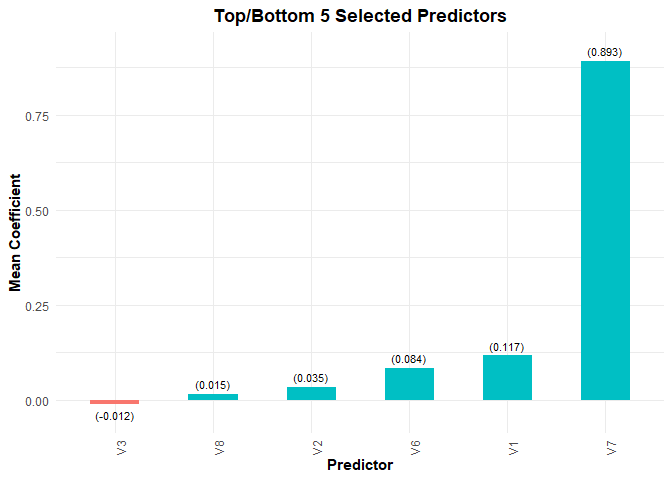
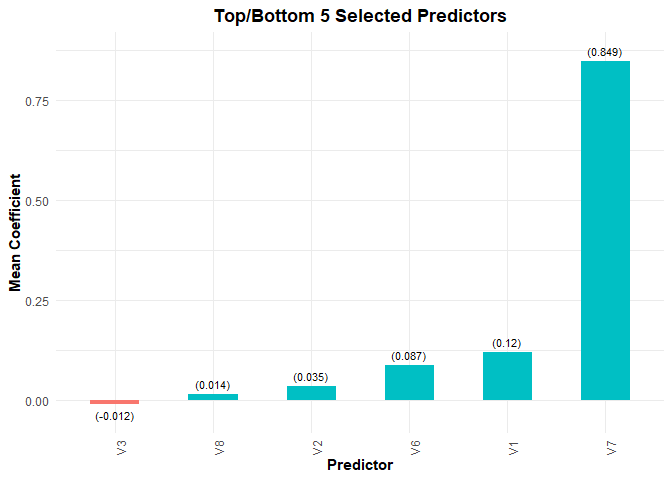
Update README.md

diff --git a/README.md b/README.md
@@ -11,7 +11,7 @@ experimental](https://img.shields.io/badge/lifecycle-experimental-orange.svg)](h
 <!-- badges: end -->
 
 The goal of bolasso is to implement model-consistent Lasso estimation
-via the bootstrap.
+via the bootstrap [\[1\]](#1).
 
 ## Installation
 
@@ -59,7 +59,7 @@ model <- bolasso(
 )
 
 Sys.time() - start.time
-#> Time difference of 34.18556 secs
+#> Time difference of 29.13701 secs
 ```
 
 We can get a quick overview of the model by printing the `bolasso`
@@ -75,7 +75,7 @@ model
 #> 
 #> Selected variables:
 #>    - 6/8 predictors selected with 90% threshold
-#>    - 3/8 predictors selected with 100% threshold
+#>    - 4/8 predictors selected with 100% threshold
 ```
 
 ### Extracting selected variables
@@ -92,23 +92,24 @@ selected_vars(model,
 #> # A tibble: 7 x 2
 #>   variable  mean_coef
 #>   <chr>         <dbl>
-#> 1 Intercept   -8.22  
-#> 2 V1           0.117 
-#> 3 V2           0.0346
-#> 4 V3          -0.0121
-#> 5 V6           0.0839
-#> 6 V7           0.893 
-#> 7 V8           0.0155
+#> 1 Intercept   -8.20  
+#> 2 V1           0.120 
+#> 3 V2           0.0347
+#> 4 V3          -0.0118
+#> 5 V6           0.0866
+#> 6 V7           0.849 
+#> 7 V8           0.0139
 selected_vars(model,
               threshold = 1,
               select = "lambda.min")
-#> # A tibble: 4 x 2
+#> # A tibble: 5 x 2
 #>   variable  mean_coef
 #>   <chr>         <dbl>
-#> 1 Intercept   -8.22  
-#> 2 V1           0.117 
-#> 3 V2           0.0346
-#> 4 V6           0.0839
+#> 1 Intercept   -8.20  
+#> 2 V1           0.120 
+#> 3 V2           0.0347
+#> 4 V3          -0.0118
+#> 5 V6           0.0866
 ```
 
 ### Plotting selected variables
@@ -154,5 +155,11 @@ model <- bolasso(
 )
 
 Sys.time() - start.time
-#> Time difference of 19.6347 secs
+#> Time difference of 13.5281 secs
 ```
+
+## References
+
+<a id="1">\[1\]</a> Bach, Francis. “Bolasso: Model Consistent Lasso
+Estimation through the Bootstrap.” ArXiv:0804.1302 \[Cs, Math, Stat\],
+April 8, 2008. <http://arxiv.org/abs/0804.1302>.
